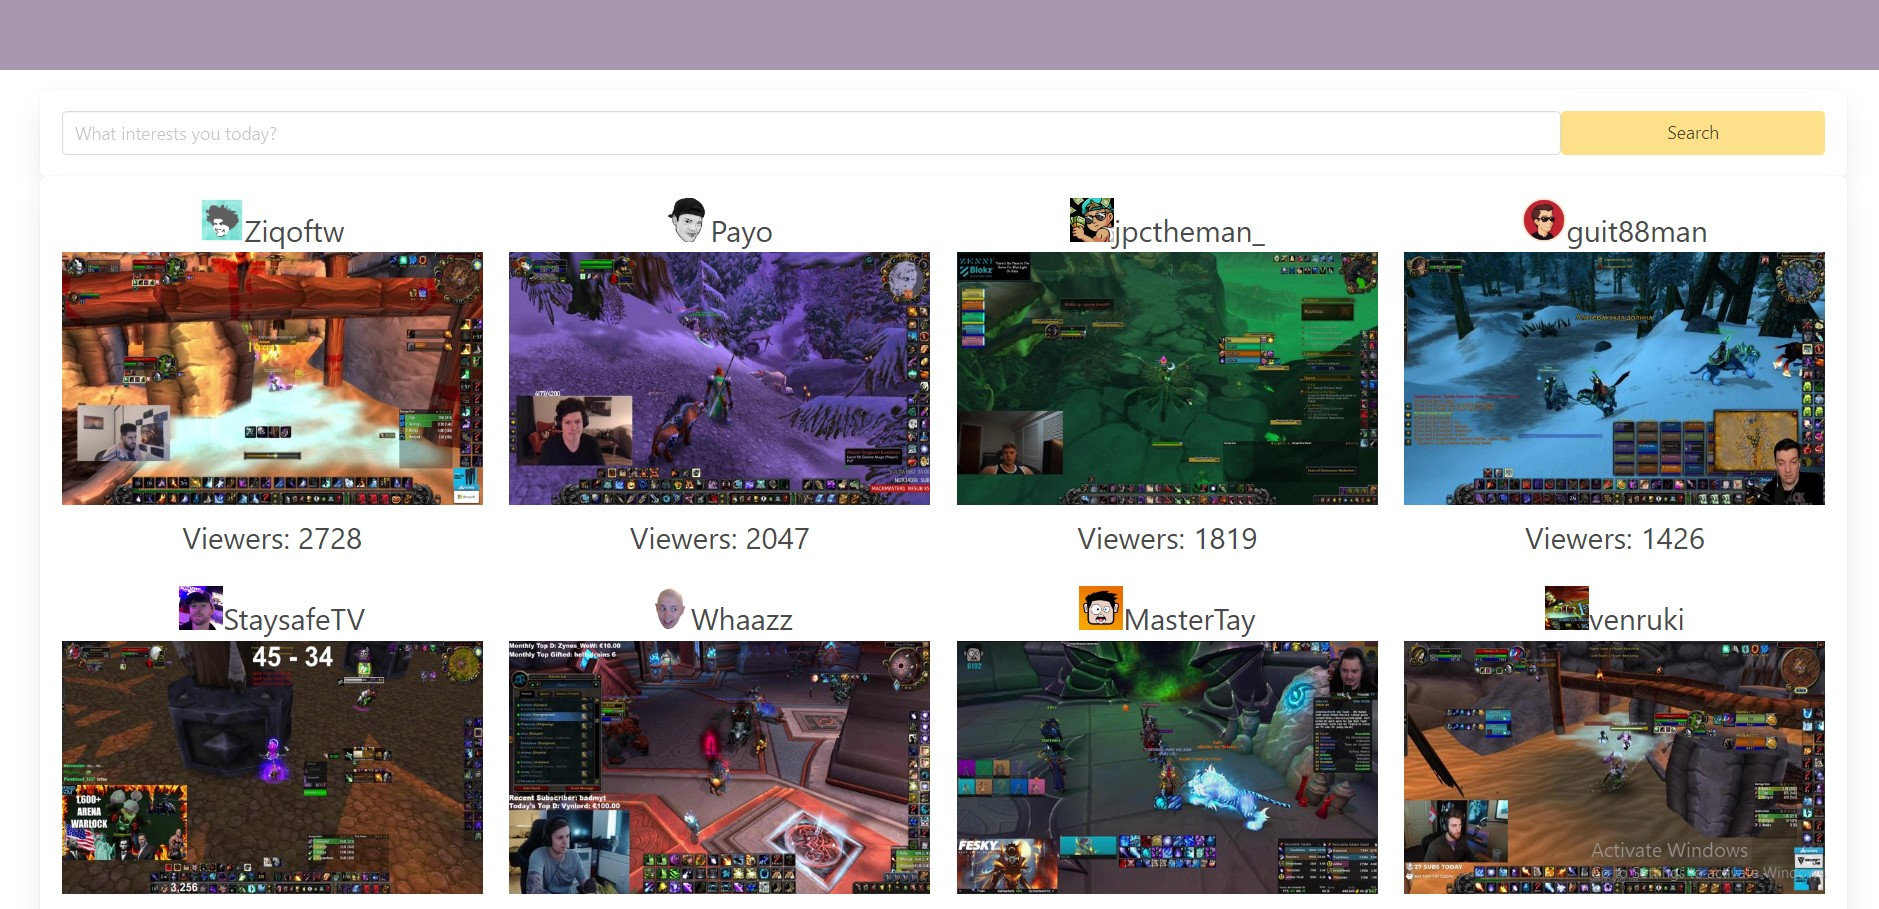
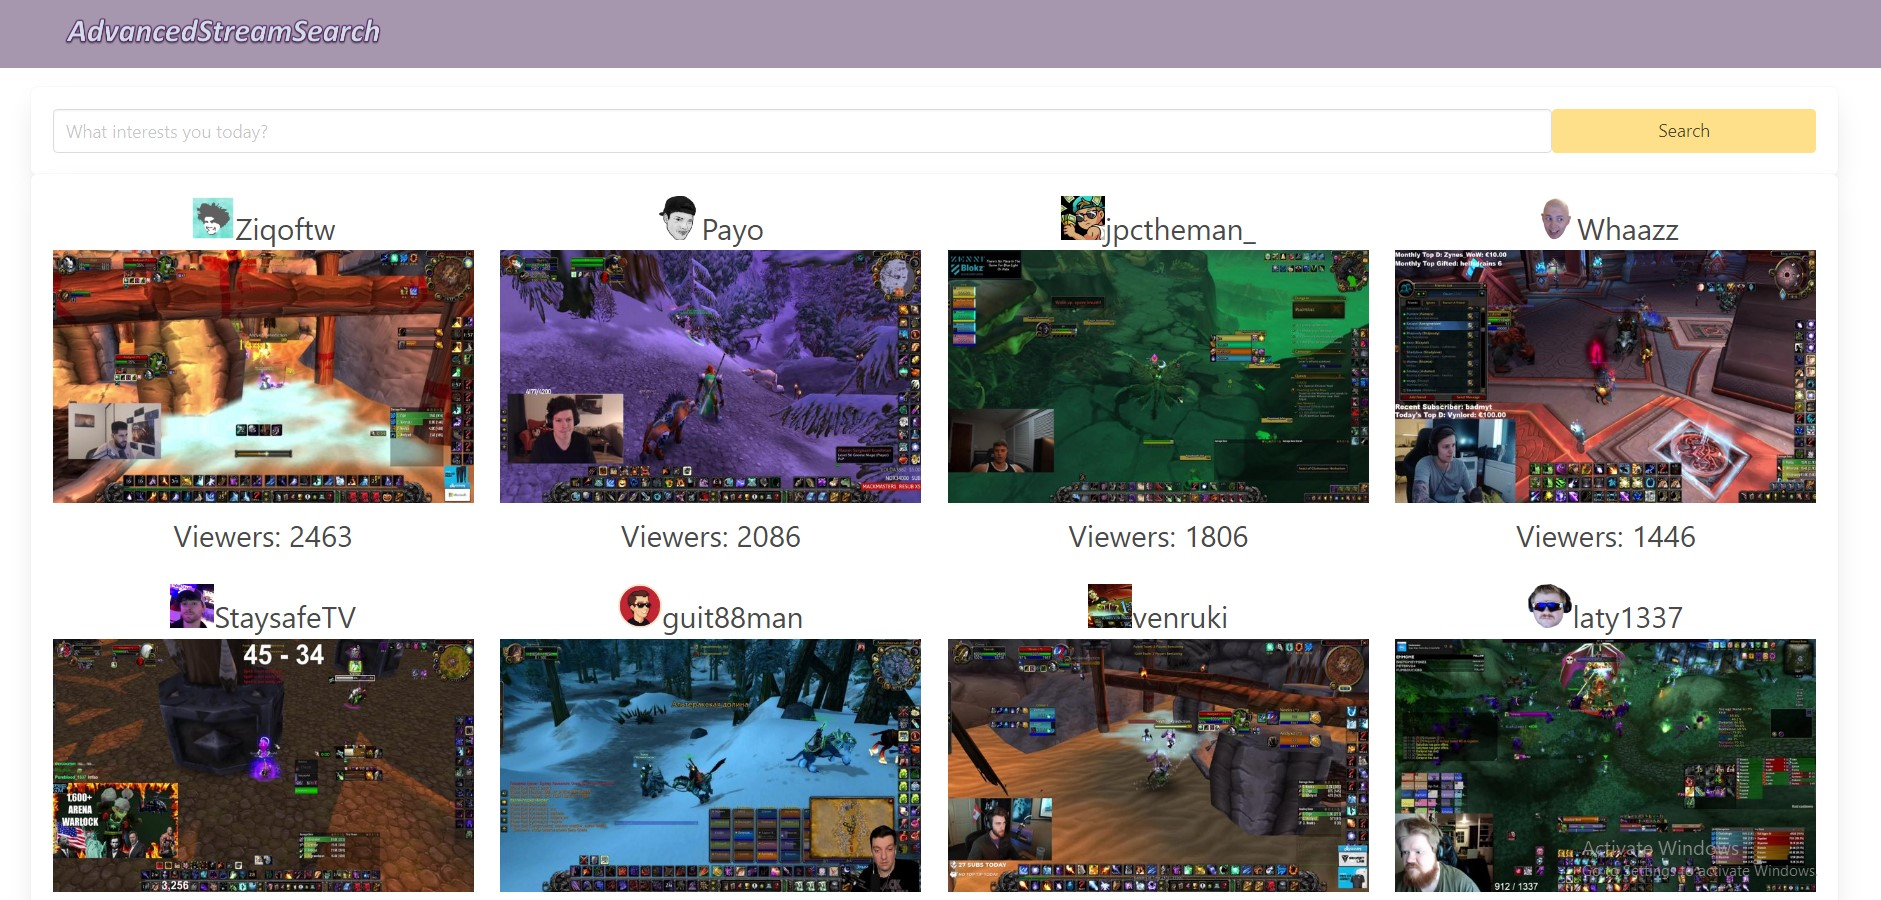
Updated UI with title

diff --git a/Code/stream-title-search/src/App.js b/Code/stream-title-search/src/App.js
@@ -57,7 +57,7 @@ function App() {
   return (
     <div className="App">
       <header className="App-header">
-
+          <img src='https://raw.githubusercontent.com/gslowski/AdvancedStreamSearch/main/Images/title.png' width="300" height="40" css={css`margin-left: 4%;`}></img>
       </header>
 
       <div className="App-background">

diff --git a/Code/stream-title-search/src/App.css b/Code/stream-title-search/src/App.css
@@ -29,7 +29,7 @@
   height: 8vh;
   display: flex;
   flex-direction: column;
-  align-items: center;
+  align-items: left;
   justify-content: center;
   font-size: calc(10px + 2vmin);
   color: white;
